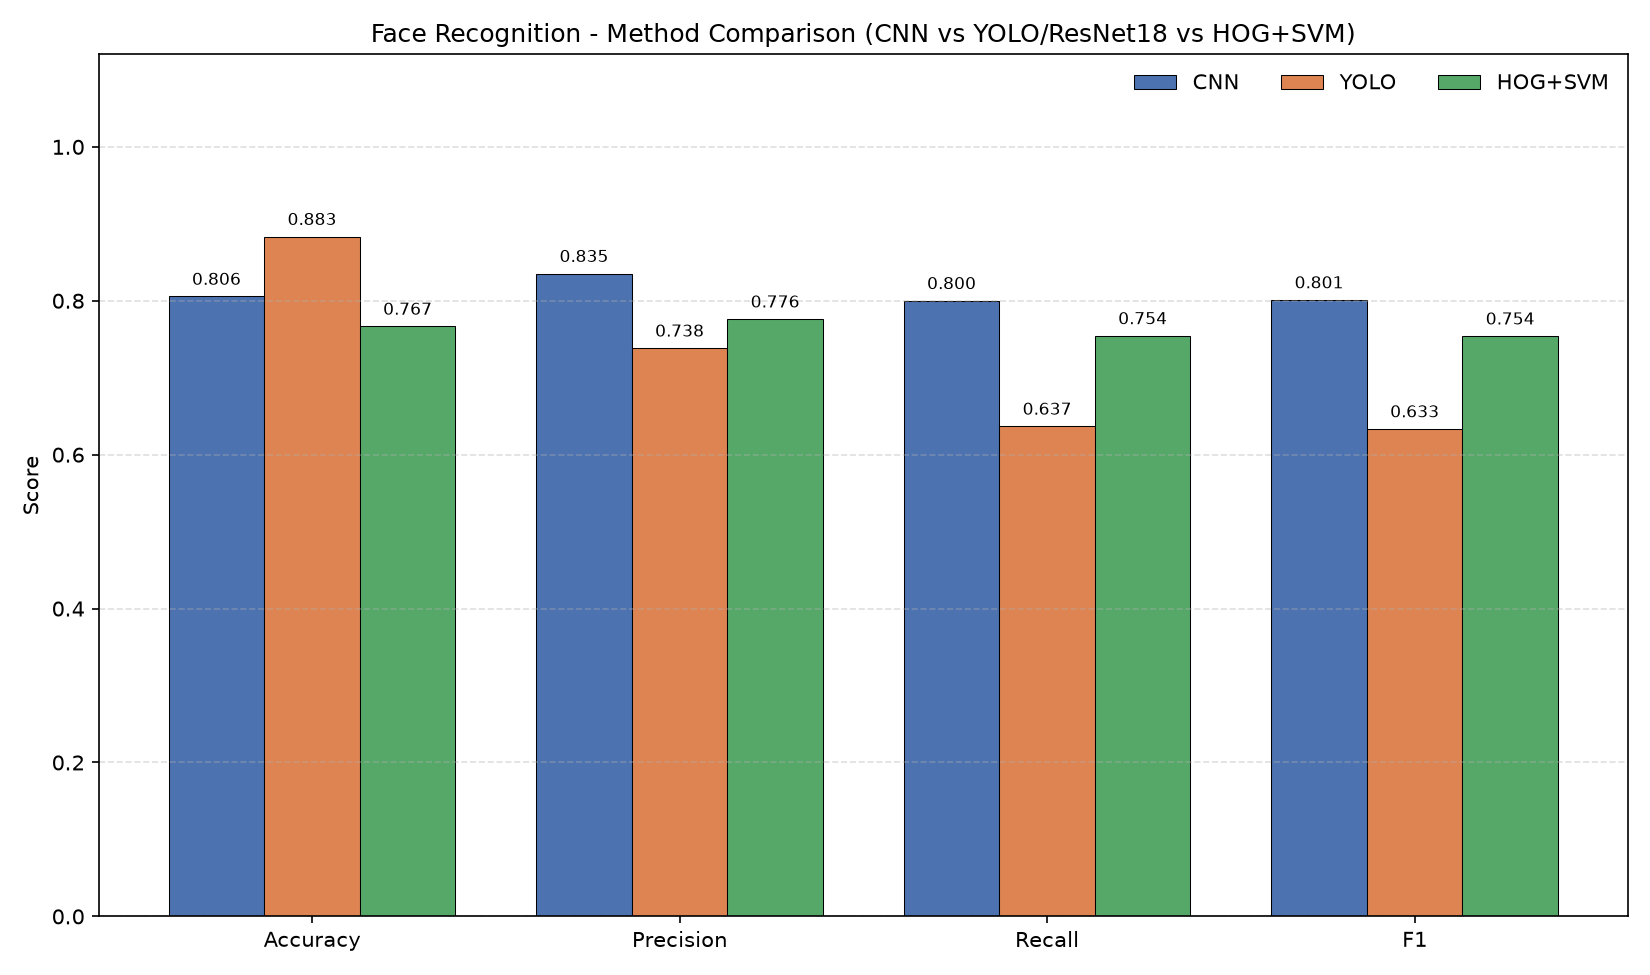
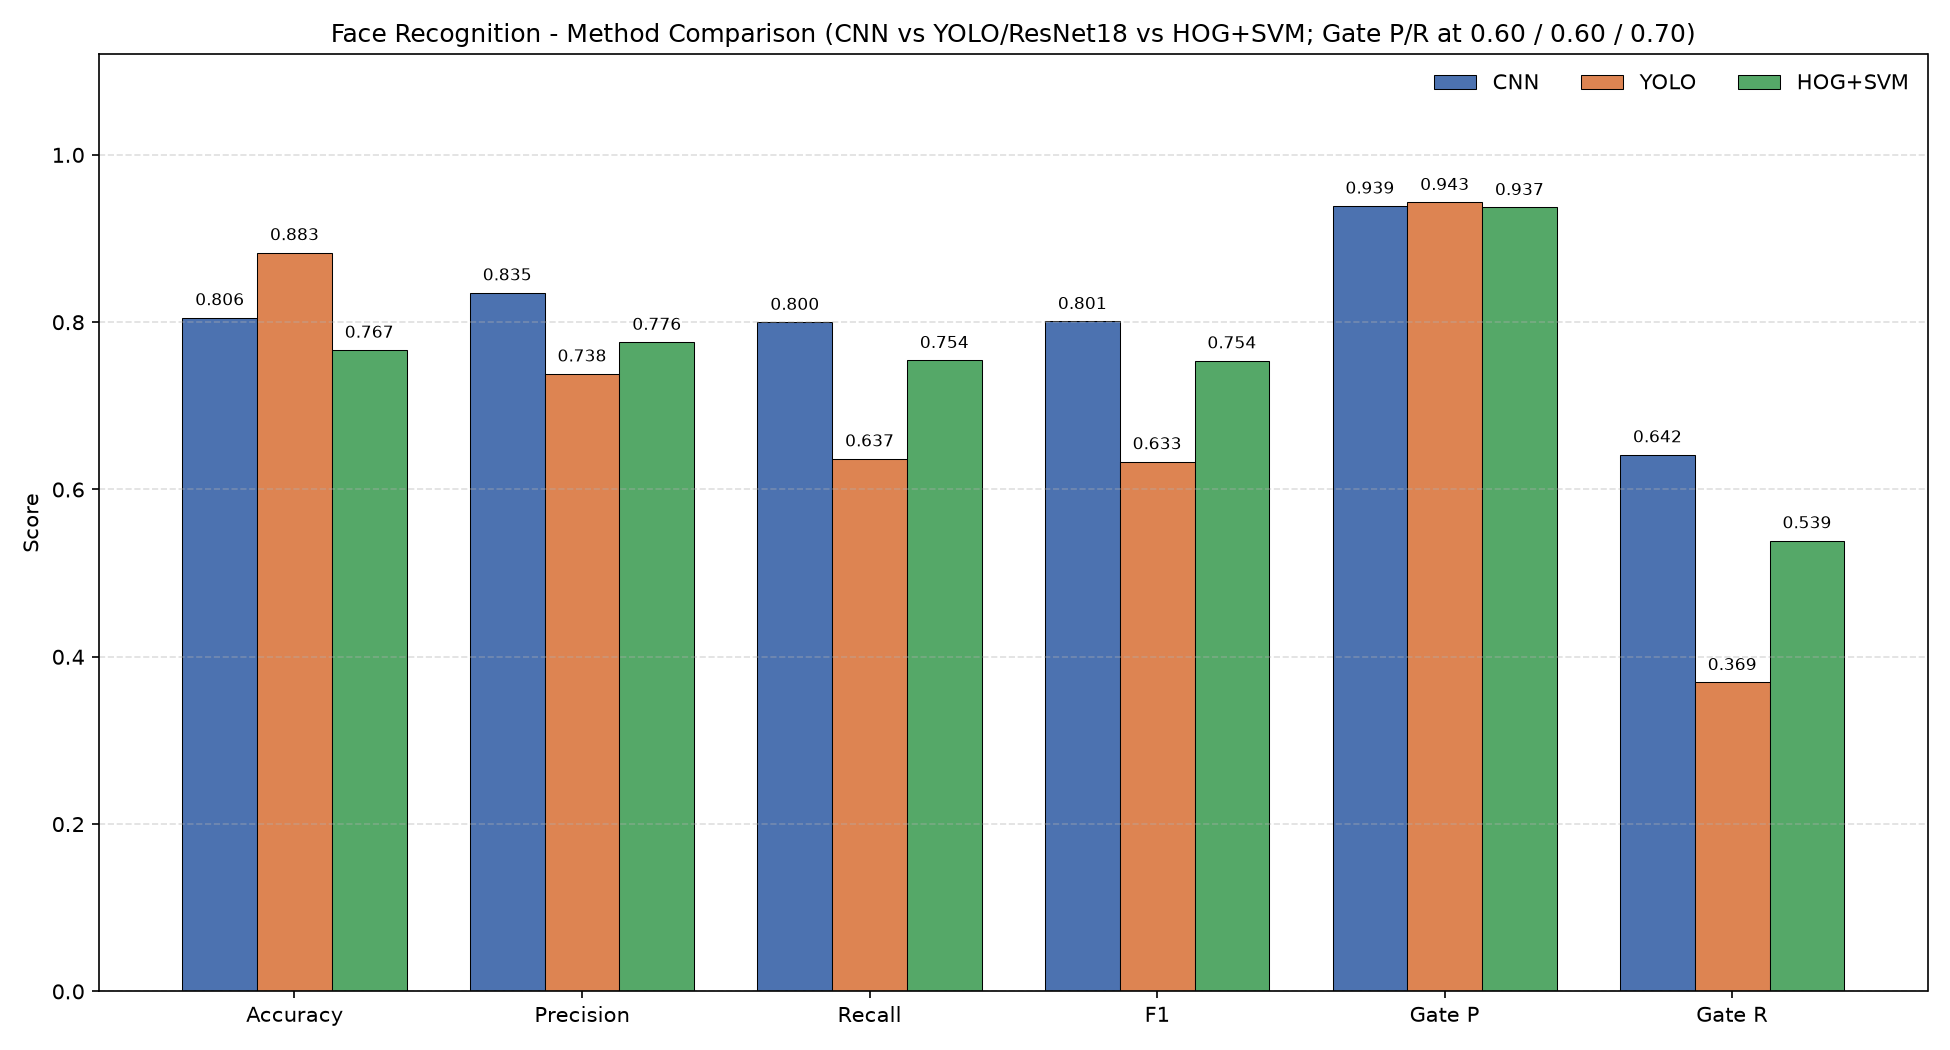
Extend comparison chart with unknown-gate precision/recall bars and gate thresholds in title

diff --git a/comparison/compare.py b/comparison/compare.py
@@ -155,28 +155,32 @@ def main():
           f"baseline.")
 
     # Grouped bar chart -------------------------------------------------------
-    metrics = ["test_accuracy", "precision_macro", "recall_macro", "f1_macro"]
-    labels = ["Accuracy", "Precision", "Recall", "F1"]
+    metrics = ["test_accuracy", "precision_macro", "recall_macro", "f1_macro",
+               "gate_precision", "gate_recall"]
+    labels = ["Accuracy", "Precision", "Recall", "F1",
+              "Gate P", "Gate R"]
     x = np.arange(len(labels))
     width = 0.26
 
-    fig, ax = plt.subplots(figsize=(11, 6.5))
+    fig, ax = plt.subplots(figsize=(13, 7))
     colors = ["#4C72B0", "#DD8452", "#55A868"]
     for i, r in enumerate(rows):
         vals = [r[k] for k in metrics]
-        bars = ax.bar(x + (i - 1) * width, vals, width,
-                      label=r["method"], color=colors[i % len(colors)],
+        bars = ax.bar(x + (i - 1) * width, np.where(np.isnan(vals), 0, vals),
+                      width, label=r["method"], color=colors[i % len(colors)],
                       edgecolor="black", linewidth=0.5)
         for b, v in zip(bars, vals):
-            ax.text(b.get_x() + b.get_width() / 2, b.get_height() + 0.01,
-                    f"{v:.3f}", ha="center", va="bottom", fontsize=8)
+            if not np.isnan(v):
+                ax.text(b.get_x() + b.get_width() / 2, b.get_height() + 0.01,
+                        f"{v:.3f}", ha="center", va="bottom", fontsize=8)
 
     ax.set_xticks(x)
     ax.set_xticklabels(labels)
     ax.set_ylim(0, 1.12)
     ax.set_ylabel("Score")
     ax.set_title("Face Recognition - Method Comparison "
-                 "(CNN vs YOLO/ResNet18 vs HOG+SVM)", fontsize=12)
+                 "(CNN vs YOLO/ResNet18 vs HOG+SVM; Gate P/R at "
+                 "0.60 / 0.60 / 0.70)", fontsize=12)
     ax.legend(loc="upper right", ncol=3, frameon=False)
     ax.grid(axis="y", linestyle="--", alpha=0.4)
     fig.tight_layout()
